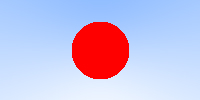
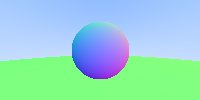
Before shifting to camera

diff --git a/SimpleRaytracer.cpp b/SimpleRaytracer.cpp
@@ -10,23 +10,20 @@
 #include "vec3.h"
 #include <fstream>
 #include "ray.h"
+#include "hitable.h"
+#include "sphere.h"
+#include "hitable_list.h"
+#include "float.h"
 
-bool hit_sphere(const vec3& center, float radius, const ray& r)
-{
-	vec3 oc = r.origin() - center;
-	float a = dot(r.direction(), r.direction());
-	float b = 2.0f * dot(oc, r.direction());
-	float c = dot(oc, oc) - radius*radius;
-	float discriminant = b*b - 4 * a*c;
-	return (discriminant > 0);
-}
 
-vec3 color(const ray& r)
+vec3 color(const ray& r, hitable *world)
 {
-	if (hit_sphere(vec3(0,0,-1), 0.5f, r))
+	hit_record rec;
+	if (world->hit(r, 0.0, FLT_MAX, rec))
 	{
-		return vec3(1, 0, 0);
+		return 0.5*vec3(rec.normal.x() + 1, rec.normal.y() + 1, rec.normal.z() + 1);
 	}
+
 	vec3 unit_direction = unit_vector(r.direction());
 	float t = 0.5f*(unit_direction.y() + 1.0f);
 	return (1.0f - t)*vec3(1.0f, 1.0f, 1.0f) + t*vec3(0.5f, 0.7f, 1.0f);
@@ -45,7 +42,11 @@ int main()
 	vec3 vertical(0.0f, 2.0f, 0.0f);
 	vec3 origin(0.0f, 0.0f, 0.0f);
 
+	hitable *list[2];
 
+	list[0] = new sphere(vec3(0, 0, -1), 0.5);
+	list[1] = new sphere(vec3(0, -100.5, -1), 100);
+	hitable *world = new hitable_list(list, 2);
 
 	for (int row = 0; row < height; row++)
 	{
@@ -56,8 +57,7 @@ int main()
 			float v = float(height - row) / float(height);
 
 			ray r(origin, lower_left_corner + u*horizontal + v*vertical);
-
-			vec3 col = color(r);
+			vec3 col = color(r, world);
 
 			uint8_t ir = static_cast<uint8_t>(255.99f * col.r());
 			uint8_t ig = static_cast<uint8_t>(255.99f * col.g());

diff --git a/sphere.cpp b/sphere.cpp
@@ -1,0 +1,34 @@
+#include "stdafx.h"
+#include "sphere.h"
+
+
+bool sphere::hit(const ray& r, float t_min, float t_max, hit_record& rec) const
+{
+	vec3 oc = r.origin() - center;
+	float a = dot(r.direction(), r.direction());
+	float b = dot(oc, r.direction());
+	float c = dot(oc, oc) - radius*radius;
+
+	float discriminant = b*b - a*c;
+	if (discriminant <= 0) return false;
+
+	float temp = (-b - sqrt(b*b - a*c)) / a;
+	if (temp < t_max && temp > t_min)
+	{
+		rec.t = temp;
+		rec.p = r.point_at_parameter(rec.t);
+		rec.normal = (rec.p - center) / radius;
+		return true;
+	}
+
+	temp = (-b + sqrt(b*b - a*c)) / a;
+	if (temp < t_max && temp > t_min)
+	{
+		rec.t = temp;
+		rec.p = r.point_at_parameter(rec.t);
+		rec.normal = (rec.p - center) / radius;
+		return true;
+	}
+
+	return false;
+}

diff --git a/hitable_list.cpp b/hitable_list.cpp
@@ -1,0 +1,29 @@
+#include "stdafx.h"
+#include "hitable_list.h"
+
+
+hitable_list::hitable_list(hitable** l, int n)
+{
+	list = l;
+	list_size = n;
+}
+
+bool hitable_list::hit(const ray& r, float t_min, float t_max, hit_record& rec) const
+{
+	hit_record temp_rec;
+	bool hit_anything = false;
+
+	double closest_so_far = t_max;
+	for (int i=0; i < list_size;i++)
+	{
+		if (list[i]->hit(r, t_min, closest_so_far, temp_rec))
+		{
+			hit_anything = true;
+			closest_so_far = temp_rec.t;
+			rec = temp_rec;
+		}
+	}
+
+	return hit_anything;
+}
+

diff --git a/camera.cpp b/camera.cpp
@@ -1,0 +1,15 @@
+#include "stdafx.h"
+#include "camera.h"
+
+camera::camera()
+{
+	lower_left_corner = vec3(-2.0f, -1.0f, -1.0f);
+	horizontal = vec3(4.0f, 0.0f, 0.0f);
+	vertical = vec3(0.0f, 2.0f, 0.0f);
+	origin = vec3(0.0f, 0.0f, 0.0f);
+}
+
+ray camera::get_ray(float u, float v)
+{
+	return ray(origin, lower_left_corner + u * horizontal + v * vertical - origin);
+}

diff --git a/sphere.h b/sphere.h
@@ -1,0 +1,15 @@
+#pragma once
+#include "hitable.h"
+
+class sphere : public hitable
+{
+public:
+	sphere() {};
+	sphere(vec3 cen, float r) : center(cen), radius(r) {};
+
+	virtual bool hit(const ray&r, float t_min, float t_max, hit_record& rec) const;
+
+
+	vec3 center;
+	float radius;
+};

diff --git a/hitable_list.h b/hitable_list.h
@@ -1,0 +1,15 @@
+#pragma once
+
+#include "hitable.h"
+
+class hitable_list : public hitable
+{
+public:
+	hitable_list() {};
+	hitable_list(hitable **l, int n);
+
+	virtual bool hit(const ray&r, float t_min, float t_max, hit_record& rec) const;
+
+	hitable **list;
+	int list_size;
+};

diff --git a/hitable.h b/hitable.h
@@ -1,0 +1,15 @@
+#pragma once
+#include "ray.h"
+
+struct hit_record
+{
+	float t;
+	vec3 p;
+	vec3 normal;
+};
+
+class hitable
+{
+public:
+	virtual bool hit(const ray&r, float t_min, float t_max, hit_record& rec) const = 0;
+};

diff --git a/camera.h b/camera.h
@@ -1,0 +1,14 @@
+#pragma once
+#include "ray.h"
+
+class camera
+{
+public:
+	camera();
+	ray get_ray(float y, float v);
+
+	vec3 origin;
+	vec3 lower_left_corner;
+	vec3 horizontal;
+	vec3 vertical;
+};

diff --git a/hitable.cpp b/hitable.cpp
@@ -1,0 +1,2 @@
+#include "stdafx.h"
+#include "hitable.h"
